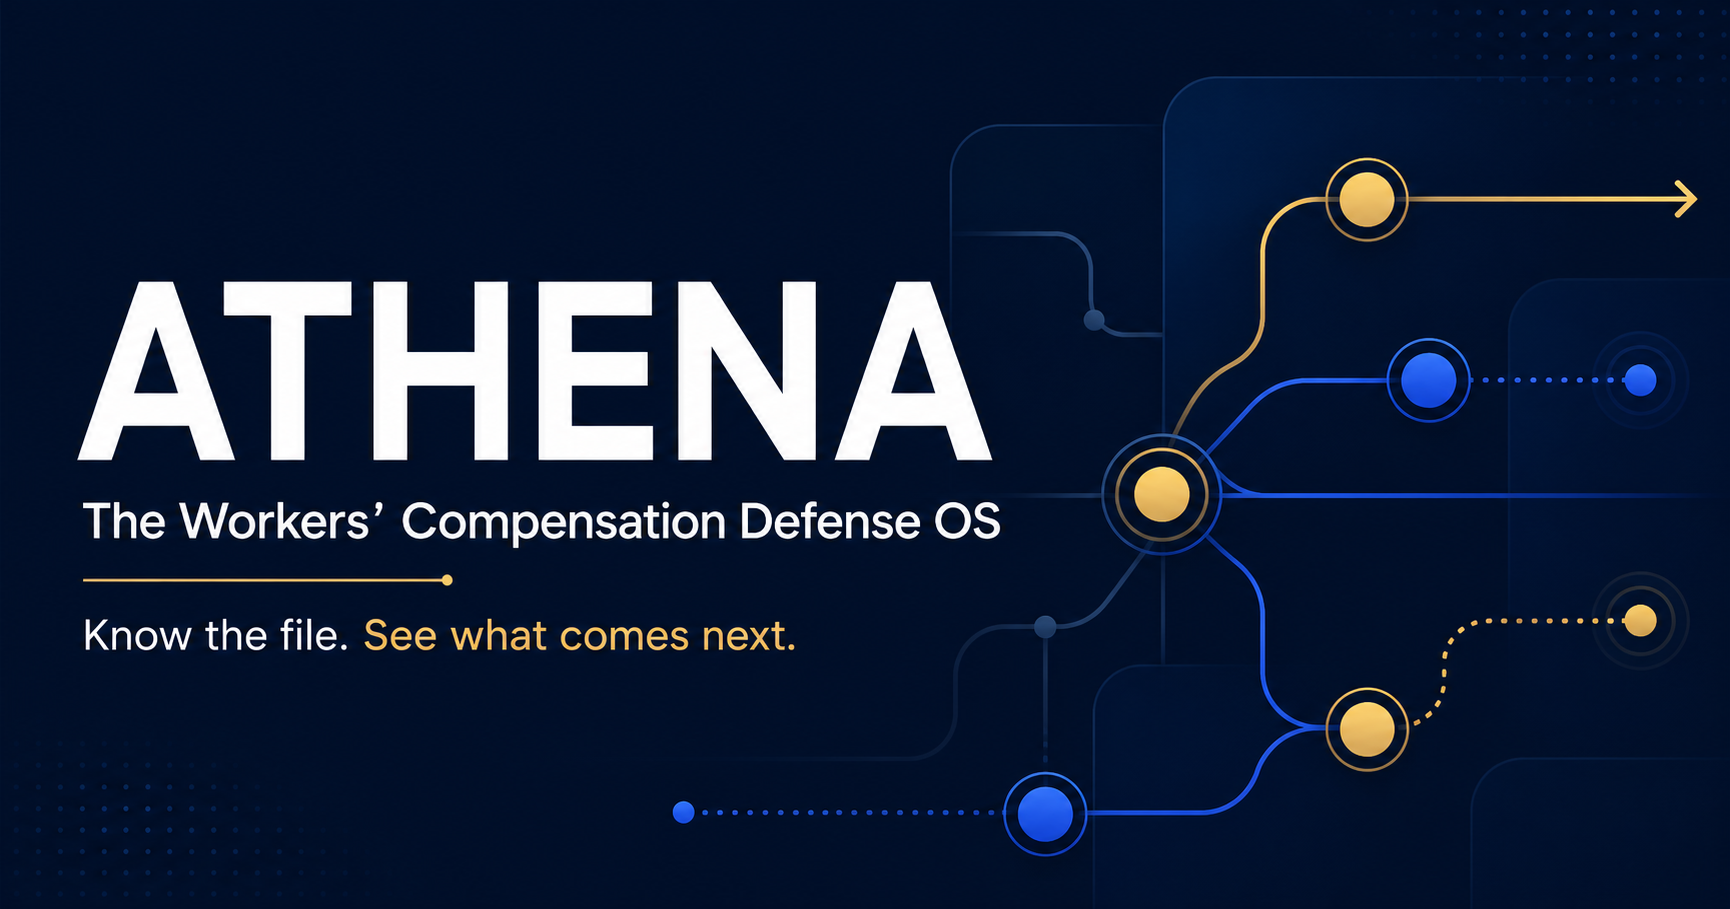
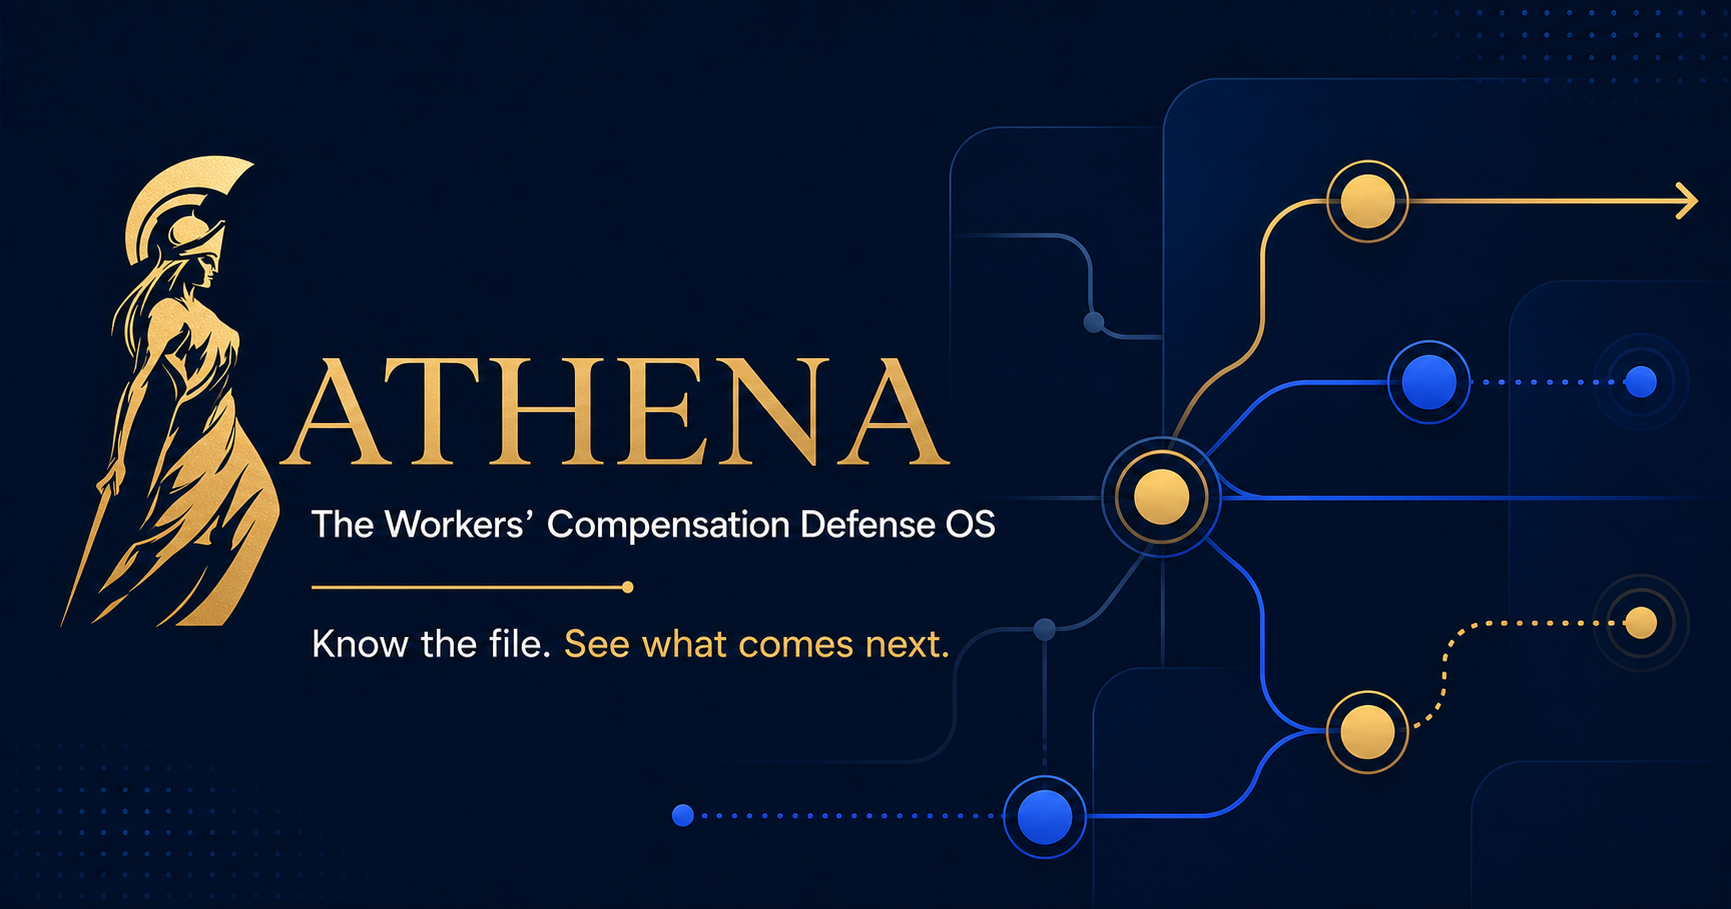
Refresh Athena social preview branding

diff --git a/src/app/layout.tsx b/src/app/layout.tsx
@@ -17,7 +17,7 @@ export const metadata: Metadata = {
     url: "/",
     siteName: "Athena",
     type: "website",
-    images: [{ url: "/og.png", width: 1730, height: 909, alt: "Athena workers’ compensation defense operating system" }],
+    images: [{ url: "/og.png", width: 1731, height: 909, alt: "Athena logo and workers’ compensation defense operating system" }],
   },
   twitter: {
     card: "summary_large_image",
